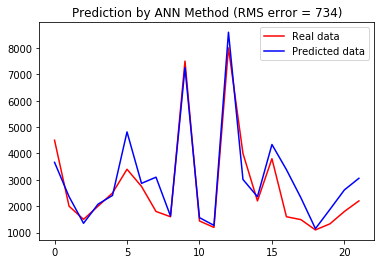
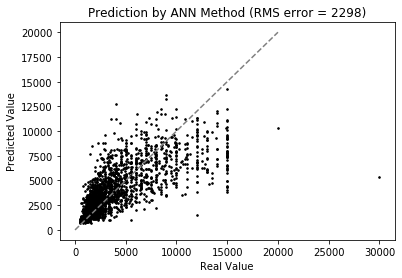
Add files via upload

diff --git a/Mult_Lin_Reg.py b/Mult_Lin_Reg.py
@@ -28,7 +28,7 @@ X = X[:, 1:]
 
 # Splitting the dataset into the Training set and Test set
 from sklearn.model_selection import train_test_split
-X_train, X_test, y_train, y_test = train_test_split(X, y, test_size = 0.002, random_state = 5)
+X_train, X_test, y_train, y_test = train_test_split(X, y, test_size = 0.20, random_state = 5)
 
 # Applying PCA
 from sklearn.decomposition import PCA
@@ -53,8 +53,9 @@ from sklearn.metrics import mean_squared_error
 from math import sqrt
 rmse = sqrt(mean_squared_error(y_test, y_pred))
 
-plt.plot(y_test, color = 'red', label = 'Real data')
-plt.plot(y_pred, color = 'blue', label = 'Predicted data')
-plt.title('Prediction by Multi Linear Regression Method (RMS error = %0.0f)' % rmse)
-plt.legend()
-plt.show()
+# Visualizing Values 
+plt.scatter(y_test, y_pred, s = 2.5, c = 'black')
+plt.plot([0, 20000], [0, 20000], linestyle = '--', c = 'gray')
+plt.title('Prediction by Multilinear Regression Method (RMS error = %0.0f)' % rmse)
+plt.ylabel('Predicted Value')
+plt.xlabel('Real Value')

diff --git a/Random_Forest_Reg.py b/Random_Forest_Reg.py
@@ -28,7 +28,7 @@ X = X[:, 1:]
 
 # Splitting the dataset into the Training set and Test set
 from sklearn.model_selection import train_test_split
-X_train, X_test, y_train, y_test = train_test_split(X, y, test_size = 0.002, random_state = 5)
+X_train, X_test, y_train, y_test = train_test_split(X, y, test_size = 0.20, random_state = 5)
 
 """
 # Feature Scaling
@@ -67,9 +67,10 @@ for i in range(1, 100, 4):
     if rmse < best_rmse:
         best_rmse = rmse
         best_y_pred = y_pred
-        
-plt.plot(y_test, color = 'red', label = 'Real data')
-plt.plot(best_y_pred, color = 'blue', label = 'Predicted data')
-plt.title('Prediction by Random Forest Regression Method (RMS error = %0.0f)' % best_rmse)
-plt.legend()
-plt.show()
+
+# Visualizing Values 
+plt.scatter(y_test, y_pred, s = 2.5, c = 'black')
+plt.plot([0, 20000], [0, 20000], linestyle = '--', c='gray')
+plt.title('Prediction by Random Forest Regression Method (RMS error = %0.0f)' % rmse)
+plt.ylabel('Predicted Value')
+plt.xlabel('Real Value')

diff --git a/Mult_Lin_Reg2.py b/Mult_Lin_Reg2.py
@@ -29,7 +29,7 @@ X = X[:, 1:]
 
 # Splitting the dataset into the Training set and Test set
 from sklearn.model_selection import train_test_split
-X_train, X_test, y_train, y_test = train_test_split(X, y, test_size = 0.002, random_state = 5)
+X_train, X_test, y_train, y_test = train_test_split(X, y, test_size = 0.20, random_state = 5)
 """
 # Applying PCA
 from sklearn.decomposition import PCA
@@ -56,8 +56,9 @@ from sklearn.metrics import mean_squared_error
 from math import sqrt
 rmse = sqrt(mean_squared_error(y_test, y_pred))
 
-plt.plot(y_test, color = 'red', label = 'Real data')
-plt.plot(y_pred, color = 'blue', label = 'Predicted data')
+# Visualizing Values 
+plt.scatter(y_test, y_pred, s = 2.5, c = 'black')
+plt.plot([0, 20000], [0, 20000], linestyle = '--', c = 'gray')
 plt.title('Prediction by Decision Tree Method (RMS error = %0.0f)' % rmse)
-plt.legend()
-plt.show()
+plt.ylabel('Predicted Value')
+plt.xlabel('Real Value')

diff --git a/ANN.py b/ANN.py
@@ -28,7 +28,7 @@ X = np.array(ct.fit_transform(X), dtype=np.float)
 X = X[:, 1:]
 
 # Splitting the dataset into the Training set and Test set
-X_train, X_test, y_train, y_test = train_test_split(X, y, test_size = 0.002, random_state = 5)
+X_train, X_test, y_train, y_test = train_test_split(X, y, test_size = 0.20, random_state = 5)
 
 # Feature Scaling
 from sklearn.preprocessing import StandardScaler
@@ -79,8 +79,9 @@ from sklearn.metrics import mean_squared_error
 from math import sqrt
 rmse = sqrt(mean_squared_error(y_test, y_pred))
 
-plt.plot(y_test, color = 'red', label = 'Real data')
-plt.plot(y_pred, color = 'blue', label = 'Predicted data')
+# Visualizing Values 
+plt.scatter(y_test, y_pred, s = 2.5, c = 'black')
+plt.plot([0, 20000], [0, 20000], linestyle = '--', c = 'gray')
 plt.title('Prediction by ANN Method (RMS error = %0.0f)' % rmse)
-plt.legend()
-plt.show()
+plt.ylabel('Predicted Value')
+plt.xlabel('Real Value')

diff --git a/Decision_Tree_Reg.py b/Decision_Tree_Reg.py
@@ -28,7 +28,7 @@ X = X[:, 1:]
 
 # Splitting the dataset into the Training set and Test set
 from sklearn.model_selection import train_test_split
-X_train, X_test, y_train, y_test = train_test_split(X, y, test_size = 0.002, random_state = 5)
+X_train, X_test, y_train, y_test = train_test_split(X, y, test_size = 0.20, random_state = 5)
 
 # Applying PCA
 from sklearn.decomposition import PCA
@@ -56,8 +56,9 @@ from sklearn.metrics import mean_squared_error
 from math import sqrt
 rmse = sqrt(mean_squared_error(y_test, y_pred))
 
-plt.plot(y_test, color = 'red', label = 'Real data')
-plt.plot(y_pred, color = 'blue', label = 'Predicted data')
+# Visualizing Values 
+plt.scatter(y_test, y_pred, s = 2.5, c = 'black')
+plt.plot([0, 20000], [0, 20000], linestyle = '--', c = 'gray')
 plt.title('Prediction by Decision Tree Method (RMS error = %0.0f)' % rmse)
-plt.legend()
-plt.show()
+plt.ylabel('Predicted Value')
+plt.xlabel('Real Value')
